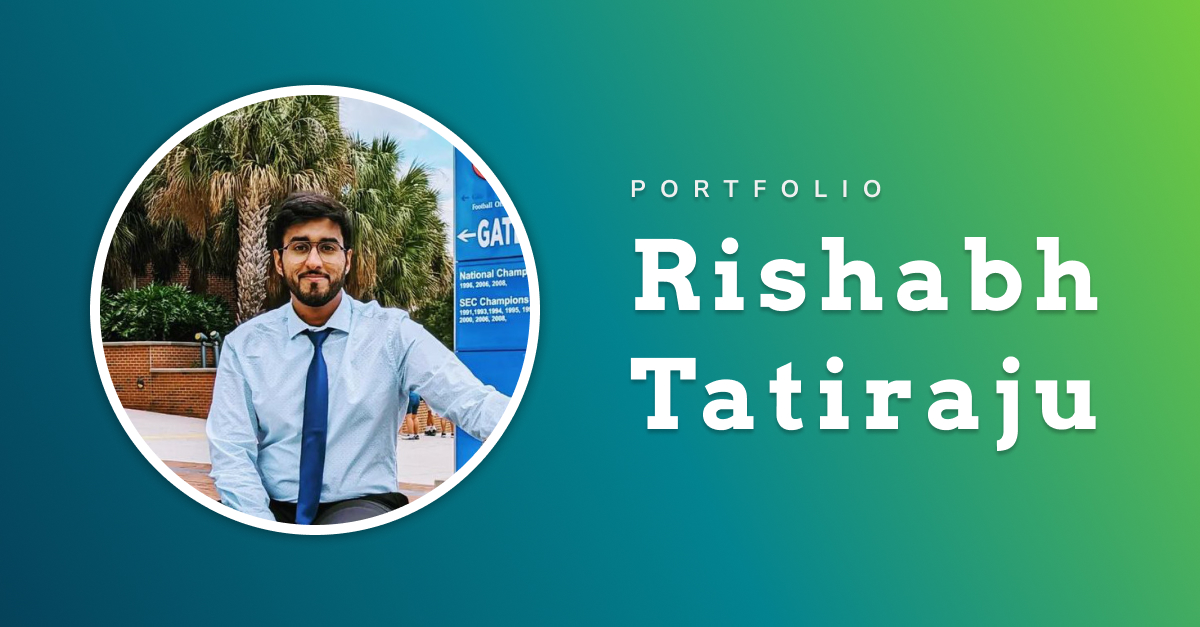
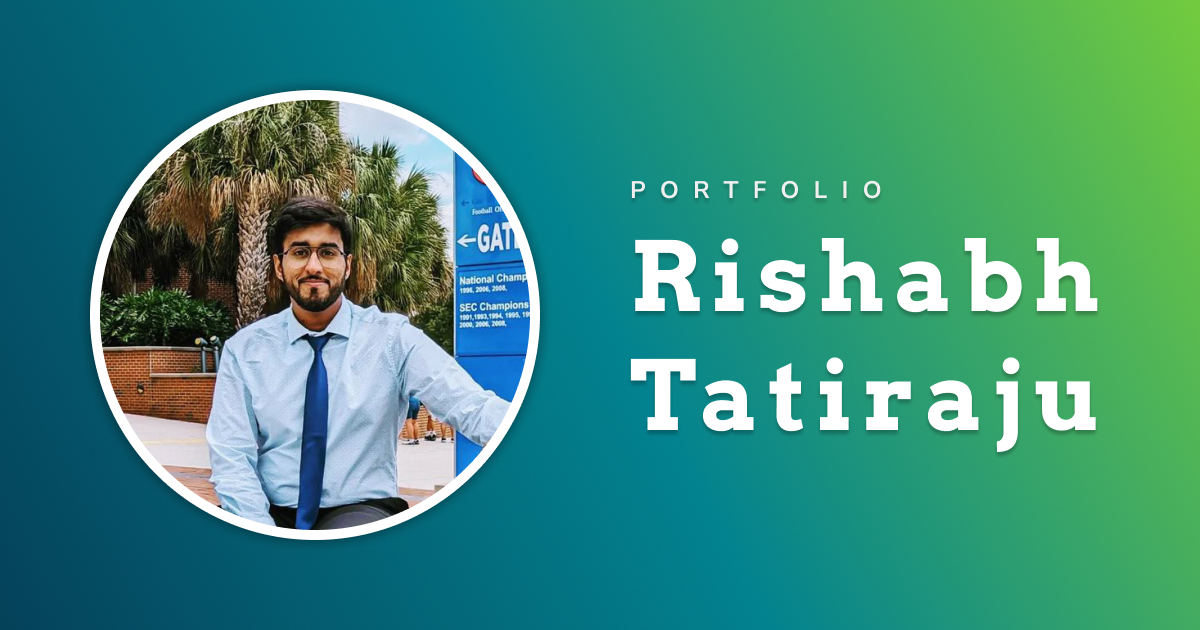
Added featured image

diff --git a/public/index.html b/public/index.html
@@ -13,7 +13,7 @@
 		content='Coding wizardry with a side of dad jokes - Welcome to my byte-sized portfolio!' />
 	<meta property='og:url' content='https://rishabh.blog' />
 	<meta property='og:image:width' content='1200' />
-	<meta property='og:image:height' content='627' />
+	<meta property='og:image:height' content='630' />
 	<meta property="og:type" content='website' />
 	<link rel="apple-touch-icon" href="%PUBLIC_URL%/logo_250w.png" />
 	<!--
